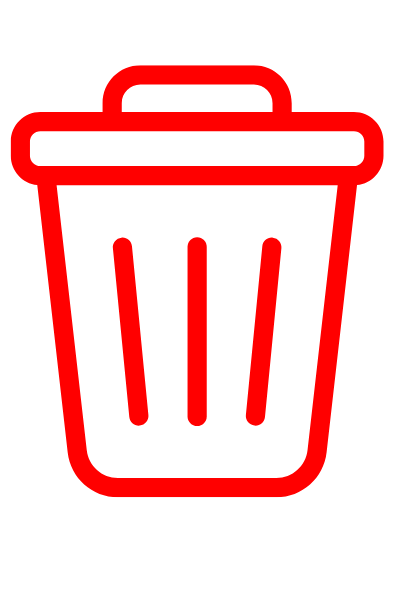
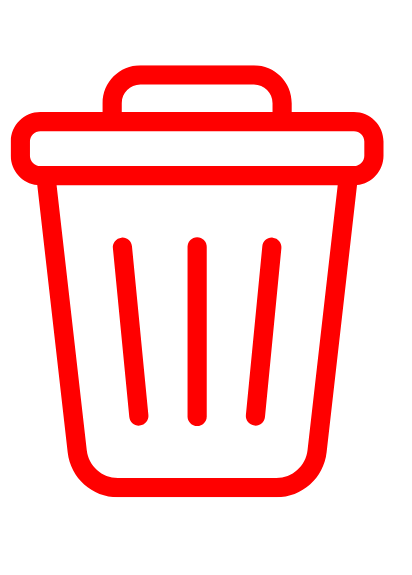
fix lỗi tùm lum

diff --git a/frontend/js/result.js b/frontend/js/result.js
@@ -302,7 +302,7 @@ function loadDisposalInstructions() {
         card.className = 'suggestion-card disposal';
         
         card.innerHTML = `
-            <div style="width: 60px; height: 60px; background: #374151; border-radius: 8px; padding: 15px; flex-shrink: 0; display: flex; align-items: center; justify-content: center;">
+            <div style="width: 72px; height: 72px; background: #45161B; border: 3px solid #FF0000; border-radius: 12px; padding: 8px; box-sizing: border-box; flex-shrink: 0; display: flex; align-items: center; justify-content: center; box-shadow: 0 8px 20px rgba(0,0,0,0.45);">
                 <img src="${item.icon}" alt="${item.title}" style="width: 100%; height: 100%; object-fit: contain;">
             </div>
             <div class="suggestion-content">

diff --git a/frontend/css/result.css b/frontend/css/result.css
@@ -159,9 +159,11 @@ body {
 /* ===== TWO COLUMN LAYOUT ===== */
 .two-column-layout {
     display: grid;
-    grid-template-columns: 380px 1fr;
-    gap: 30px;
+    grid-template-columns: 0.7fr 1.3fr;
+    gap: 40px;
     align-items: start;
+    width: 100%;
+    max-width: 1400px;
 }
 
 /* ===== COLUMN TITLES ===== */
@@ -329,4 +331,14 @@ body {
     border-radius: 8px;
     padding: 15px;
     object-fit: contain;
+}
+.suggestion-card.disposal {
+    transition: all 0.3s ease;
+    border: 1px solid transparent;
+    border-radius: 12px;
+}
+
+.suggestion-card.disposal:hover {
+    border-color: #FF0000;
+    box-shadow: 0 0 16px rgba(255, 0, 0, 0.2);
 }
